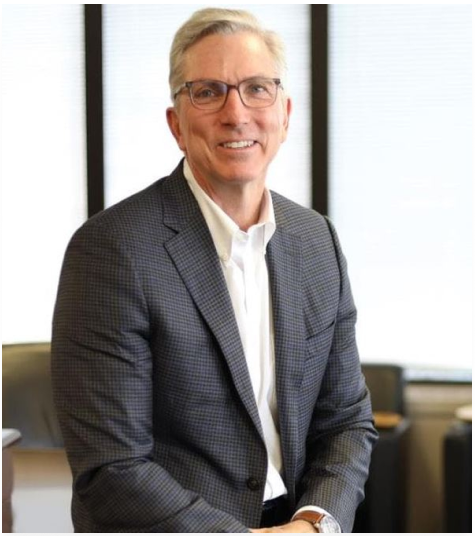
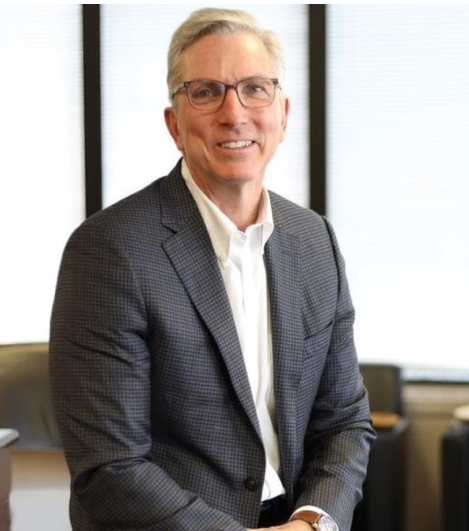
change arrows and img man

diff --git a/style.css b/style.css
@@ -18,6 +18,7 @@ body {
   font-weight: 500;
   line-height: 1.5;
   margin: 0;
+background-color: var(--color-primary-normal);
 }
 
 p,
@@ -267,19 +268,36 @@ h4 {
 /*man-section*/
 .man {
   padding-top: 100px;
+
+
 }
 
 .man__about {
   display: flex;
 }
+
+
 .man__img {
-  margin-left: -20px;
+  width: 100%; /* Займати 100% ширини батьківського контейнера */
+  height: 100%; /* Займати 100% висоти батьківського контейнера */
   margin-right: 70px;
+
+}
+
+.man__img img {
+  width: 100%; /* Займати 100% ширини контейнера */
+  height: 100%; /* Займати 100% висоти контейнера */
+  object-fit: cover; /* Забезпечує розтягнення картинки так, щоб вона повністю заповнила контейнер */
+  object-position: center; /* Вирівнює картинку по центру контейнера */
+box-shadow: 0px 4px 8px 0px rgba(0, 0, 0, 0.5);
 }
 
 .man__rectangle-vertical {
-  margin-top: 5px;
   margin-right: 30px;
+  
+}
+.man__rectangle-vertical img {
+  height: 100%;
 }
 .man-text-and-rec {
   display: flex;
@@ -374,8 +392,9 @@ h4 {
 
 .feedback__container {
   box-shadow: 0px 14px 14px 0px rgba(0, 0, 0, 0.15);
-  height: 700px;
+  height: 711px;
   position: relative;
+    padding-top: 30px;
 }
 .feedback__container img,
 .feedback__img {
@@ -393,6 +412,7 @@ h4 {
   justify-content: space-around;
   text-align: center;
   gap: 30px;
+
 }
 
 .feedback__desc {
@@ -403,6 +423,7 @@ h4 {
 .feedback__block-fix {
   height: auto;
   padding: 30px;
+
 }
 
 .feedback__name {
@@ -432,9 +453,8 @@ h4 {
 #nextBtn {
   background-color: transparent;
   border: none;
-  padding: 10px 20px;
+  padding: 10px 15px;
   cursor: pointer;
-  margin-right: 10px;
   transition: background-color 0.3s ease;
 }
 
@@ -587,12 +607,11 @@ h4 {
     margin: auto;
     text-align: center;
   }
-  .man__img {
-    margin: -10px;
-  }
+
   .man__img img {
     width: 350px;
     justify-content: center;
+    margin-bottom: 30px;
   }
 
   .man__about {

diff --git a/index.html b/index.html
@@ -148,7 +148,7 @@
         <div class="container">
           <div class="man__about">
             <div class="man__img">
-              <img src="./img/man.jpg" alt="" srcset="" />
+              <img class="man__img-1" src="./img/man.png" alt="" srcset="" />
             </div>
             <div class="man-text-and-rec">
               <div class="man__rectangle-vertical">
